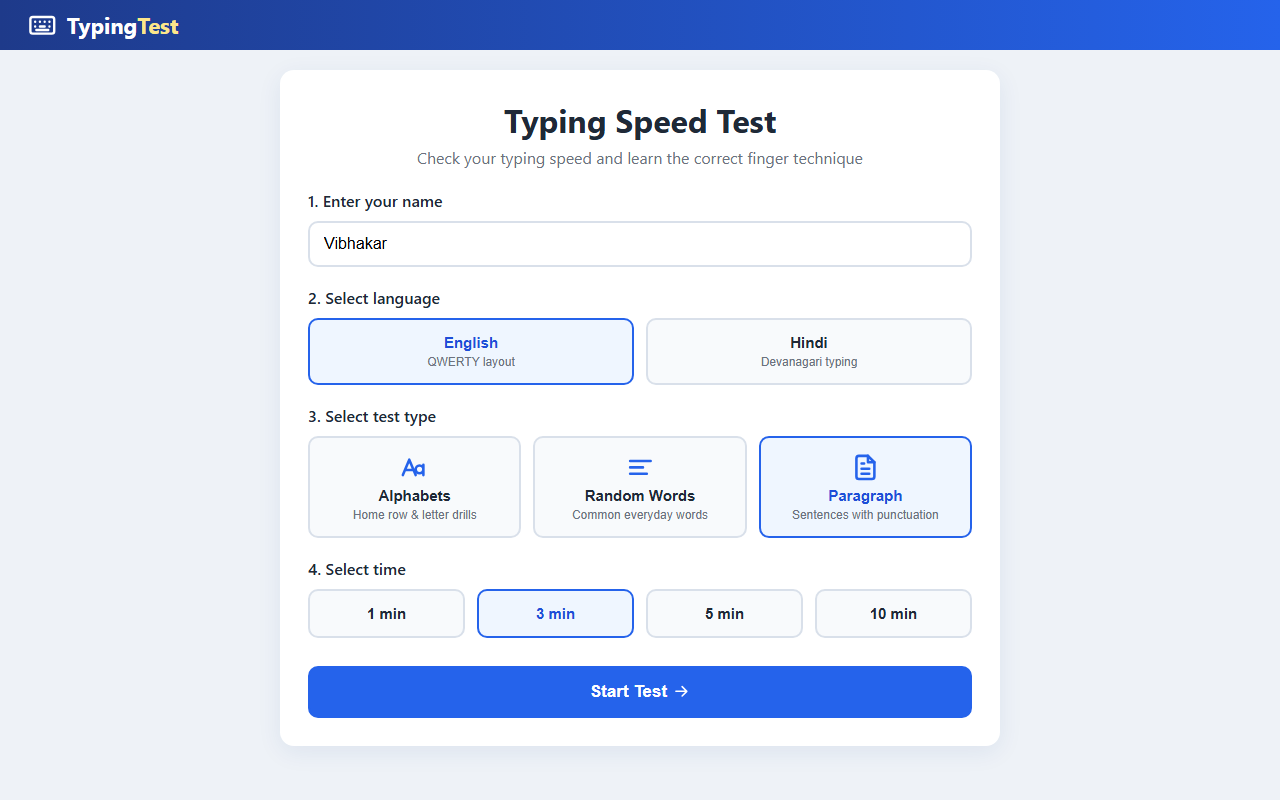
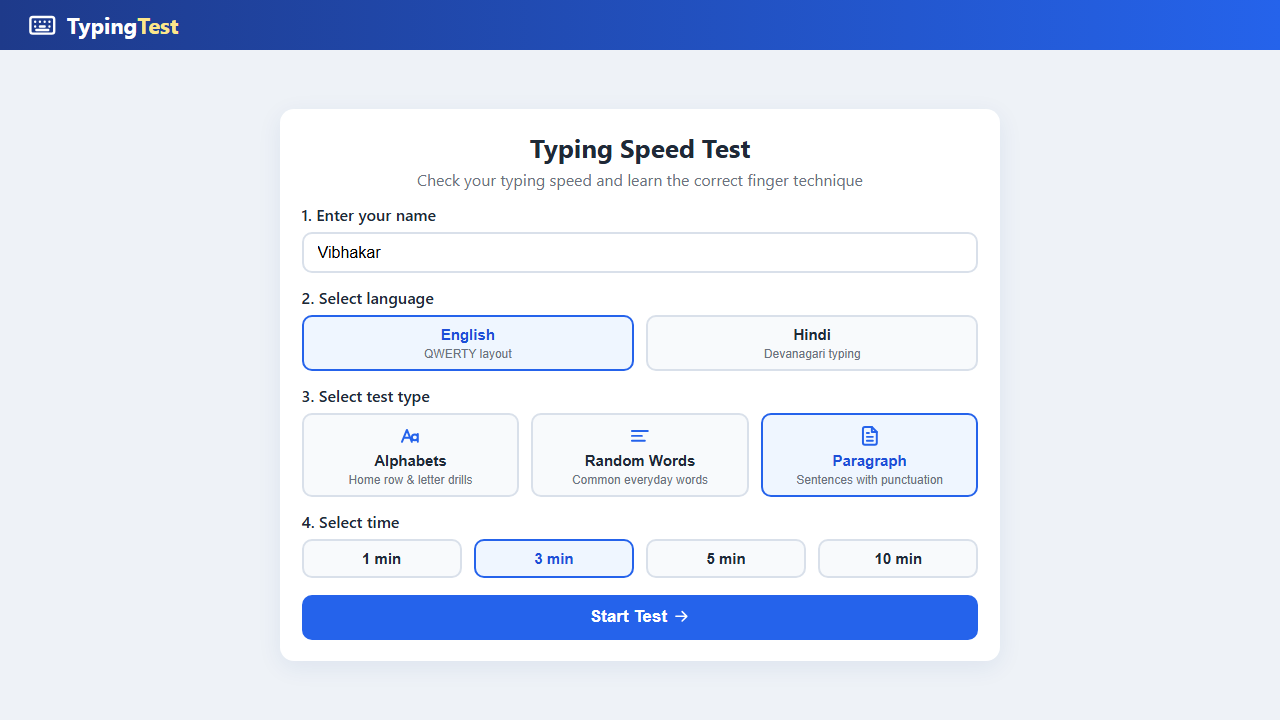
Fit every screen on one page without scrolling
- Body fills the viewport; screens size themselves to the available height
- Result screen: two-column layout with actions in the header,
  top 6 mistyped keys and the 5 most relevant tips
- Setup spacing scales with screen height
- Normal scrolling kept only for phones and very short windows
- Refresh README screenshots

diff --git a/css/style.css b/css/style.css
@@ -22,11 +22,16 @@
 
 .hindi, .key .kd { font-family: "Nirmala UI", "Mangal", "Noto Sans Devanagari", sans-serif; }
 
+/* The whole app fits in one screen: header + the active screen fill the viewport height */
 body {
   font-family: "Segoe UI", Roboto, Arial, sans-serif;
   background: var(--bg);
   color: var(--text);
-  min-height: 100vh;
+  height: 100vh;
+  height: 100dvh;
+  overflow: hidden;
+  display: flex;
+  flex-direction: column;
 }
 
 .hidden { display: none !important; }
@@ -63,30 +68,41 @@ h3 .icon { color: var(--primary); margin-right: 4px; }
   font-size: 14px;
 }
 
-main { max-width: 1100px; margin: 0 auto; padding: clamp(12px, 2.5vh, 24px) 16px 24px; }
+main {
+  flex: 1;
+  min-height: 0;
+  width: 100%;
+  max-width: 1100px;
+  margin: 0 auto;
+  padding: clamp(10px, 2.2vh, 24px) 16px;
+  display: flex;
+  flex-direction: column;
+}
 
 .screen { display: none; }
-.screen.active { display: block; animation: fade .3s ease; }
+.screen.active { display: flex; flex-direction: column; flex: 1; min-height: 0; animation: fade .3s ease; }
+#setupScreen.active { justify-content: center; }
 @keyframes fade { from { opacity: 0; transform: translateY(8px); } to { opacity: 1; transform: none; } }
 
 .card {
   background: var(--card);
   border-radius: 14px;
   box-shadow: 0 6px 24px rgba(30, 58, 138, .08);
-  padding: 28px;
+  padding: clamp(16px, 3vh, 28px);
 }
 
-h1, h2 { text-align: center; margin-bottom: 6px; }
+h1, h2 { text-align: center; margin-bottom: 4px; }
+h1 { font-size: clamp(22px, 3.6vh, 32px); }
 h3 { margin: 26px 0 12px; font-size: 18px; }
-.sub { text-align: center; color: var(--muted); margin-bottom: 22px; }
+.sub { text-align: center; color: var(--muted); margin-bottom: clamp(4px, 1.6vh, 22px); }
 
 /* ===== Setup ===== */
-.setup-card { max-width: 720px; margin: 0 auto; }
-.field-label { display: block; font-weight: 600; margin: 20px 0 10px; }
+.setup-card { width: 100%; max-width: 720px; margin: 0 auto; }
+.field-label { display: block; font-weight: 600; margin: clamp(8px, 1.9vh, 20px) 0 clamp(5px, 1vh, 10px); }
 
 #nameInput {
   width: 100%;
-  padding: 12px 14px;
+  padding: clamp(8px, 1.3vh, 12px) 14px;
   font-size: 16px;
   border: 2px solid var(--border);
   border-radius: 10px;
@@ -103,7 +119,7 @@ h3 { margin: 26px 0 12px; font-size: 18px; }
   flex-direction: column;
   align-items: center;
   gap: 4px;
-  padding: 14px 10px;
+  padding: clamp(7px, 1.4vh, 14px) 10px;
   background: #f8fafc;
   border: 2px solid var(--border);
   border-radius: 10px;
@@ -115,7 +131,7 @@ h3 { margin: 26px 0 12px; font-size: 18px; }
 }
 .option:hover { border-color: #93c5fd; }
 .option.selected { border-color: var(--primary); background: #eff6ff; color: var(--primary-dark); }
-.opt-icon { font-size: 28px; line-height: 1; }
+.opt-icon { font-size: clamp(20px, 3vh, 28px); line-height: 1; }
 .opt-desc { font-size: 12px; font-weight: 400; color: var(--muted); }
 
 .btn {
@@ -132,7 +148,7 @@ h3 { margin: 26px 0 12px; font-size: 18px; }
 .btn:hover { border-color: var(--primary); }
 .btn.primary { background: var(--primary); border-color: var(--primary); color: #fff; }
 .btn.primary:hover { background: var(--primary-dark); }
-.btn.big { width: 100%; margin-top: 28px; padding: 14px; font-size: 17px; }
+.btn.big { width: 100%; margin-top: clamp(12px, 2.8vh, 28px); padding: clamp(10px, 1.6vh, 14px); font-size: 17px; }
 
 /* ===== Test ===== */
 .stats-bar {
@@ -291,14 +307,31 @@ h3 { margin: 26px 0 12px; font-size: 18px; }
 .legend i { display: inline-block; width: 14px; height: 14px; border-radius: 4px; margin-right: 5px; vertical-align: -2px; }
 
 .test-actions { display: flex; gap: 10px; }
-.result-actions { display: flex; justify-content: center; flex-wrap: wrap; gap: 12px; margin-top: 20px; }
+.result-actions { display: flex; flex-wrap: wrap; gap: 10px; }
 
 /* ===== Result ===== */
-.result-card { max-width: 860px; margin: 0 auto; }
-.result-main { display: flex; gap: 28px; align-items: center; flex-wrap: wrap; justify-content: center; }
+.result-card {
+  flex: 0 1 auto;   /* as tall as its content, but never taller than the screen */
+  min-height: 0;
+  display: flex;
+  flex-direction: column;
+  gap: clamp(10px, 2vh, 18px);
+  padding: clamp(14px, 2.4vh, 24px) clamp(16px, 2.4vw, 28px);
+}
+.result-head { display: flex; justify-content: space-between; align-items: center; flex-wrap: wrap; gap: 10px 16px; }
+.result-head h2, .result-head .sub { text-align: left; margin: 0; }
+.result-head h2 { font-size: clamp(20px, 3vh, 26px); }
+
+.result-main {
+  display: grid;
+  grid-template-columns: auto minmax(0, 1fr) minmax(200px, 280px);
+  gap: clamp(12px, 2vw, 22px);
+  align-items: center;
+}
 .wpm-circle {
-  width: 170px;
-  height: 170px;
+  --size: clamp(100px, 17vh, 160px);
+  width: var(--size);
+  height: var(--size);
   border-radius: 50%;
   background: conic-gradient(var(--primary) var(--pct, 0%), #e5e7eb 0);
   display: flex;
@@ -310,47 +343,64 @@ h3 { margin: 26px 0 12px; font-size: 18px; }
 .wpm-circle::before {
   content: "";
   position: absolute;
-  inset: 14px;
+  inset: 12px;
   background: #fff;
   border-radius: 50%;
 }
 .wpm-circle span, .wpm-circle small { position: relative; }
-.wpm-circle span { font-size: 48px; font-weight: 800; color: var(--primary-dark); line-height: 1; }
-.wpm-circle small { color: var(--muted); }
+.wpm-circle span { font-size: calc(var(--size) * 0.28); font-weight: 800; color: var(--primary-dark); line-height: 1; }
+.wpm-circle small { color: var(--muted); font-size: 12px; }
 
-.result-grid { flex: 1; min-width: 300px; display: grid; grid-template-columns: repeat(3, 1fr); gap: 10px; }
-.result-grid > div { background: #f8fafc; }
-.result-grid .stat-value { font-size: 22px; }
+.result-grid { display: grid; grid-template-columns: repeat(3, 1fr); gap: 8px; }
+.result-grid > div { background: #f8fafc; padding: clamp(5px, 1vh, 10px); }
+.result-grid .stat-value { font-size: clamp(17px, 2.6vh, 22px); }
 
 .level-box {
-  margin-top: 22px;
-  padding: 14px 18px;
+  padding: 10px 14px;
   border-radius: 10px;
   background: #eff6ff;
   border-left: 5px solid var(--primary);
-  font-size: 15px;
+  font-size: 14px;
+  line-height: 1.45;
 }
 
-.weak-keys { display: grid; grid-template-columns: repeat(auto-fill, minmax(240px, 1fr)); gap: 10px; }
+.result-panels {
+  flex: 1 1 auto;
+  min-height: 0;
+  display: grid;
+  grid-template-columns: 1.2fr 1fr;
+  gap: clamp(14px, 2vw, 24px);
+}
+.panel { min-height: 0; overflow: hidden; display: flex; flex-direction: column; }
+.panel h3 { margin: 0 0 clamp(6px, 1.2vh, 12px); font-size: 16px; }
+
+.weak-keys { display: grid; grid-template-columns: repeat(2, minmax(0, 1fr)); gap: 8px; }
 .weak-key {
   display: flex;
   align-items: center;
-  gap: 12px;
-  padding: 10px 12px;
+  gap: 10px;
+  padding: clamp(5px, 0.9vh, 9px) 10px;
   border: 1px solid var(--border);
   border-radius: 10px;
   background: #fafafa;
 }
-.weak-key .key { width: 44px; height: 42px; flex-shrink: 0; font-size: 15px; }
-.weak-key .key .kd { font-size: 18px; }
-.weak-key .info { font-size: 13px; line-height: 1.4; }
-.weak-key .info b { font-size: 14px; }
+.weak-key .key { width: 36px; height: 36px; flex-shrink: 0; font-size: 14px; }
+.weak-key .key .kd { font-size: 17px; }
+.weak-key .info { font-size: 12px; line-height: 1.35; min-width: 0; }
+.weak-key .info b { font-size: 13px; }
 .no-errors { color: var(--correct); font-weight: 600; }
 
-.tips { padding-left: 22px; line-height: 1.7; }
-.tips li { margin-bottom: 6px; }
+.tips { padding-left: 18px; font-size: 14px; line-height: 1.5; }
+.tips li { margin-bottom: clamp(3px, 0.8vh, 8px); }
 
 /* ===== Responsive ===== */
+@media (max-width: 760px), (max-height: 540px) {
+  body { height: auto; min-height: 100vh; overflow: auto; }
+  .result-main { grid-template-columns: auto minmax(0, 1fr); }
+  .result-main .level-box { grid-column: 1 / -1; }
+  .result-panels { grid-template-columns: 1fr; }
+  .panel { overflow: visible; }
+}
 @media (max-width: 760px) {
   .test-toolbar { justify-content: center; text-align: center; }
   .card { padding: 20px 16px; }
@@ -369,7 +419,7 @@ h3 { margin: 26px 0 12px; font-size: 18px; }
   .key small { display: none; }
   .legend { font-size: 11px; gap: 4px 10px; }
   .result-grid { grid-template-columns: repeat(2, 1fr); min-width: 0; }
-  .wpm-circle { width: 140px; height: 140px; }
+  .wpm-circle { --size: 110px; }
 }
 
 /* ===== Certificate (print only) ===== */
@@ -378,7 +428,7 @@ h3 { margin: 26px 0 12px; font-size: 18px; }
 @media print {
   @page { size: A4 landscape; margin: 0; }
 
-  body { background: #fff; }
+  body { background: #fff; height: auto; overflow: visible; display: block; }
   body > *:not(.certificate) { display: none !important; }
 
   .certificate {

diff --git a/js/script.js b/js/script.js
@@ -461,7 +461,7 @@ function renderLevel(s) {
 
 function renderWeakKeys() {
   const box = $("weakKeys");
-  const entries = Object.entries(state.mistakes).sort((a, b) => b[1] - a[1]).slice(0, 8);
+  const entries = Object.entries(state.mistakes).sort((a, b) => b[1] - a[1]).slice(0, 6);
   if (!entries.length) {
     box.innerHTML = `<p class="no-errors"><svg class="icon" viewBox="0 0 24 24" aria-hidden="true"><circle cx="12" cy="12" r="9"/><path d="M8 12l3 3 5-6"/></svg> No mistakes! You typed every key correctly.</p>`;
     return;
@@ -501,24 +501,10 @@ function rowHint(key) {
   return `Reach up from ${homeKey} to the number row, then return to ${homeKey}.`;
 }
 
+// Most relevant tips first; only the top 5 are shown so the result fits on one screen
 function renderTips(s) {
   const tips = [];
-  if (s.accuracy < 90) tips.push("Your accuracy is below 90% — slow down. Be accurate first, speed will follow.");
-  if (s.accuracy >= 95 && s.net < 40) tips.push("Your accuracy is good — now try to push your speed a little.");
-  tips.push("Keep your fingers on the home row: left hand on A S D F, right hand on J K L ;. Feel the small bumps on F and J without looking.");
-  tips.push("Don't look at the keyboard — keep your eyes on the screen (touch typing).");
-  tips.push("Return your finger to the home row after every key press.");
-  if (state.lang === "hi") {
-    tips.push("In Hindi typing, the ि matra is typed first (F key), before the letter — e.g. कि = F then D.");
-    tips.push("Half letters use Shift — e.g. Shift + D gives क्, Shift + L gives स्.");
-    tips.push("The full stop । is Shift + A, and the comma is the ] key.");
-    tips.push("The reph (र् on top, as in धर्म) is typed with Shift + Z after the letter and its matra — धर्म = / K E Shift+Z.");
-  } else {
-    tips.push("For capital letters, use the Shift key on the opposite hand (e.g. Right Shift for 'A').");
-  }
-  tips.push("Press the Space bar with your thumb and don't rest your wrists on the keyboard.");
-
-  const weak = Object.entries(state.mistakes).sort((a, b) => b[1] - a[1]);
+  const weak = Object.entries(state.mistakes);
   if (weak.length) {
     const fingerCount = {};
     weak.forEach(([ch, c]) => {
@@ -526,12 +512,24 @@ function renderTips(s) {
       if (f) fingerCount[f] = (fingerCount[f] || 0) + c;
     });
     const worst = Object.entries(fingerCount).sort((a, b) => b[1] - a[1])[0];
-    if (worst) tips.unshift(`Most of your mistakes were on <b>${FINGERS[worst[0]]}</b> keys — practice those keys separately.`);
+    if (worst) tips.push(`Most of your mistakes were on <b>${FINGERS[worst[0]]}</b> keys — practice those keys separately.`);
   }
+  if (s.accuracy < 90) tips.push("Your accuracy is below 90% — slow down. Be accurate first, speed will follow.");
+  if (s.accuracy >= 95 && s.net < 40) tips.push("Your accuracy is good — now try to push your speed a little.");
   if (state.type === "alphabets" && s.accuracy >= 90) tips.push("Nice work on Alphabets — try the 'Random Words' test next.");
   if (state.type === "words" && s.accuracy >= 90) tips.push("Nice work on Words — try the 'Paragraph' test to practice punctuation.");
+  if (state.lang === "hi") {
+    tips.push("Type the ि matra first (F key), before the letter — e.g. कि = F then D.");
+    tips.push("Half letters use Shift — Shift + D gives क्, Shift + L gives स्. The full stop । is Shift + A.");
+    tips.push("Reph (र् on top) is Shift + Z after the letter and its matra — धर्म = / K E Shift+Z.");
+  } else {
+    tips.push("For capital letters, use the Shift key on the opposite hand (e.g. Right Shift for 'A').");
+  }
+  tips.push("Keep your fingers on the home row (A S D F and J K L ;) and return to it after every key.");
+  tips.push("Don't look at the keyboard — keep your eyes on the screen.");
+  tips.push("Press the Space bar with your thumb and don't rest your wrists on the keyboard.");
 
-  $("tipsList").innerHTML = tips.map((t) => `<li>${t}</li>`).join("");
+  $("tipsList").innerHTML = tips.slice(0, 5).map((t) => `<li>${t}</li>`).join("");
 }
 
 function escapeHtml(str) {

diff --git a/index.html b/index.html
@@ -109,8 +109,20 @@
     <!-- ===== Screen 3: Result ===== -->
     <section id="resultScreen" class="screen">
       <div class="card result-card">
-        <h2 id="resultTitle">Result</h2>
-        <p id="resultMeta" class="sub"></p>
+        <div class="result-head">
+          <div>
+            <h2 id="resultTitle">Result</h2>
+            <p id="resultMeta" class="sub"></p>
+          </div>
+          <div class="result-actions">
+            <button id="retryBtn" class="btn primary">Try Again</button>
+            <button id="newTestBtn" class="btn">New Test</button>
+            <button id="printBtn" class="btn" title="Print certificate">
+              <svg class="icon" viewBox="0 0 24 24" aria-hidden="true"><path d="M6 9V3h12v6"/><rect x="3" y="9" width="18" height="8" rx="2"/><path d="M6 14h12v7H6z"/><path d="M17 12h.01"/></svg>
+              Print Certificate
+            </button>
+          </div>
+        </div>
 
         <div class="result-main">
           <div class="wpm-circle">
@@ -122,26 +134,21 @@
             <div><span class="stat-label">Accuracy</span><span id="resAcc" class="stat-value">0%</span></div>
             <div><span class="stat-label">Correct Chars</span><span id="resCorrect" class="stat-value">0</span></div>
             <div><span class="stat-label">Wrong Chars</span><span id="resWrong" class="stat-value">0</span></div>
-            <div><span class="stat-label">Total Keystrokes</span><span id="resKeys" class="stat-value">0</span></div>
+            <div><span class="stat-label">Keystrokes</span><span id="resKeys" class="stat-value">0</span></div>
             <div><span class="stat-label">Time</span><span id="resTime" class="stat-value">0</span></div>
           </div>
+          <div id="levelBox" class="level-box"></div>
         </div>
 
-        <div id="levelBox" class="level-box"></div>
-
-        <h3><svg class="icon" viewBox="0 0 24 24" aria-hidden="true"><circle cx="12" cy="12" r="9"/><circle cx="12" cy="12" r="5"/><circle cx="12" cy="12" r="1"/></svg> Mistyped keys &amp; correct finger</h3>
-        <div id="weakKeys" class="weak-keys"></div>
-
-        <h3><svg class="icon" viewBox="0 0 24 24" aria-hidden="true"><path d="M9 18h6M10 21h4M12 3a6 6 0 0 0-4 10.5c.8.8 1 1.5 1 2.5h6c0-1 .2-1.7 1-2.5A6 6 0 0 0 12 3z"/></svg> Suggestions</h3>
-        <ul id="tipsList" class="tips"></ul>
-
-        <div class="result-actions">
-          <button id="retryBtn" class="btn primary">Try Again</button>
-          <button id="newTestBtn" class="btn">New Test</button>
-          <button id="printBtn" class="btn" title="Print certificate">
-            <svg class="icon" viewBox="0 0 24 24" aria-hidden="true"><path d="M6 9V3h12v6"/><rect x="3" y="9" width="18" height="8" rx="2"/><path d="M6 14h12v7H6z"/><path d="M17 12h.01"/></svg>
-            Print Certificate
-          </button>
+        <div class="result-panels">
+          <div class="panel">
+            <h3><svg class="icon" viewBox="0 0 24 24" aria-hidden="true"><circle cx="12" cy="12" r="9"/><circle cx="12" cy="12" r="5"/><circle cx="12" cy="12" r="1"/></svg> Mistyped keys &amp; correct finger</h3>
+            <div id="weakKeys" class="weak-keys"></div>
+          </div>
+          <div class="panel">
+            <h3><svg class="icon" viewBox="0 0 24 24" aria-hidden="true"><path d="M9 18h6M10 21h4M12 3a6 6 0 0 0-4 10.5c.8.8 1 1.5 1 2.5h6c0-1 .2-1.7 1-2.5A6 6 0 0 0 12 3z"/></svg> Suggestions</h3>
+            <ul id="tipsList" class="tips"></ul>
+          </div>
         </div>
       </div>
     </section>
